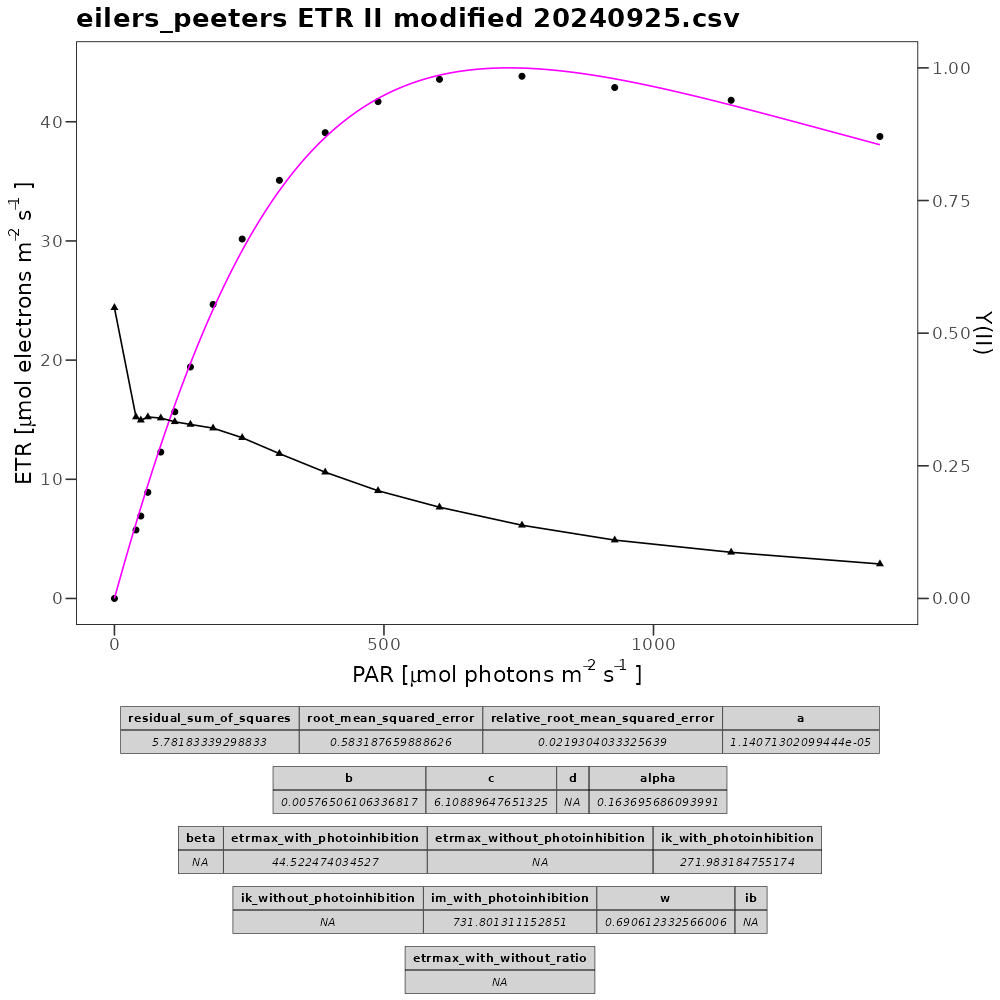
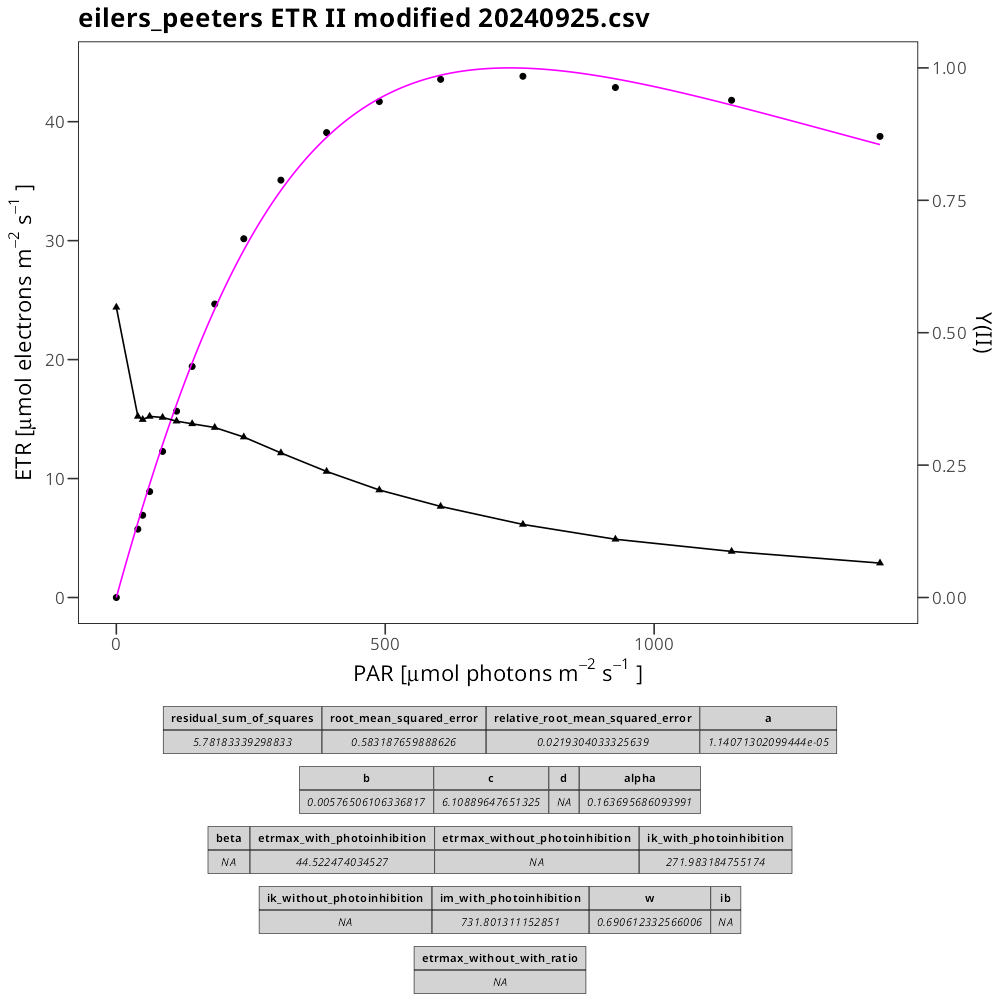
renamed etrmax_with_without_ratio to etrmax_without_with_ratio

diff --git a/README.md b/README.md
@@ -477,7 +477,7 @@ $${alpha} = \frac{{etrmax\\_with\\_photoinhibition}}{{ik\\_with\\_photoinhibitio
 
 - **w**: Not available, here set to `NA_real_`
 - **ib**: Not available, here set to `NA_real_`
-- **etrmax_with_without_ratio**: Ratio of `etrmax_with_photoinhibition` to `etrmax_without_photoinhibition` and `ik_with_photoinhibition` to `ik_without_photoinhibition`,  transfered as: `pmax_popt_and_ik_iik_ratio`
+- **etrmax_without_with_ratio**: Ratio of `etrmax_without_photoinhibition` / `etrmax_with_photoinhibition` and `ik_without_photoinhibition` / `ik_with_photoinhibition`,  transfered as: `pmax_popt_and_ik_iik_ratio`
 
 #### Details
 
@@ -519,9 +519,9 @@ Returns a modified model result as a list with the following elements:
 - **im_with_photoinhibition**: The PAR at which the maximum electron transport rate is achieved by taking photoinhibition into account, transfered as: `im`
 - **w**: Not available, here set to `NA_real_`
 - **ib**: Transfered unchange as: `ib`
-- **etrmax_with_without_ratio**: Ratio of `etrmax_with_photoinhibition` to `etrmax_without_photoinhibition` and `ik_with_photoinhibition` to `ik_without_photoinhibition`. Calculated as:
+- **etrmax_without_with_ratio**: Ratio of `etrmax_without_photoinhibition` / `etrmax_with_photoinhibition` and `ik_without_photoinhibition` / `ik_with_photoinhibition`. Calculated as:
 
-$${{etrmax\\_with\\_without\\_ratio}} = \frac{{etrmax\\_with\\_photoinhibition}}{{etrmax\\_without\\_photoinhibition}}$$
+$${{etrmax\\_with\\_without\\_ratio}} = \frac{{etrmax\\_without\\_photoinhibition}}{{etrmax\\_with\\_photoinhibition}}$$
 
 #### Details
 
@@ -563,7 +563,7 @@ Returns a modified model result as a list with the following elements:
 - **im_with_photoinhibition**: The PAR at which the maximum electron transport rate is achieved by taking photoinhibition into account, transfered as`im`
 - **w**: The sharpness of the peak, transfered as `w`
 - **ib**: Not available, here set to `NA_real_`
-- **etrmax_with_without_ratio**: Not available, here set to `NA_real_`
+- **etrmax_without_with_ratio**: Not available, here set to `NA_real_`
 
 #### Details
 
@@ -626,7 +626,7 @@ $$ik\\_without\\_photoinhibition = \frac{etrmax\\_without\\_photoinhibition}{alp
 
 - **w**: Not available, here set to `NA_real_`
 - **ib**: Not available, here set to `NA_real_`
-- **etrmax_with_without_ratio**: Ratio of `etrmax_with_photoinhibition` to `etrmax_without_photoinhibition` and `ik_with_photoinhibition` to `ik_without_photoinhibition`. Calculated as:
+- **etrmax_without_with_ratio**: Ratio of `etrmax_without_photoinhibition` / `etrmax_with_photoinhibition`  and `ik_without_photoinhibition` / `ik_with_photoinhibition`. Calculated as:
 
 $${{etrmax\\_with\\_without\\_ratio}} = \frac{{etrmax\\_with\\_photoinhibition}}{{etrmax\\_without\\_photoinhibition}}$$
 
@@ -662,7 +662,7 @@ modified        |Eilers and Peeters |Platt    |Walsby          |Vollenweider    
 |im_with_photoinhibition   |im     |im     |NA           |NA       |
 |w         |w     |NA     |NA           |NA       |
 |ib         |NA     |ib     |NA           |NA       |
-|etrmax_with_without_ratio   |NA     |NA     |NA           |pmax_popt_and_ik_iik_ratio |
+|etrmax_without_with_ratio   |NA     |NA     |NA           |pmax_popt_and_ik_iik_ratio |
 
 #### Publication-accurate naming and the respective modified naming with additional calculations not included in the original publication
 
@@ -684,7 +684,7 @@ modified        |Eilers and Peeters |Platt    |Walsby          |Vollenweider    
 |im_with_photoinhibition   |im     |im     |im_with_photoinhibition     |im_with_photoinhibition |
 |w         |w     |NA     |NA           |NA       |
 |ib         |NA     |ib     |NA           |NA       |
-|etrmax_with_without_ratio   |NA     |etrmax_with_without_ratio  |etrmax_with_without_ratio |pmax_popt_and_ik_iik_ratio |
+|etrmax_without_with_ratio   |NA     |etrmax_without_with_ratio  |etrmax_without_with_ratio |pmax_popt_and_ik_iik_ratio |
 
 ### compare_regression_models_ETR_I() and compare_regression_models_ETR_II()
 
